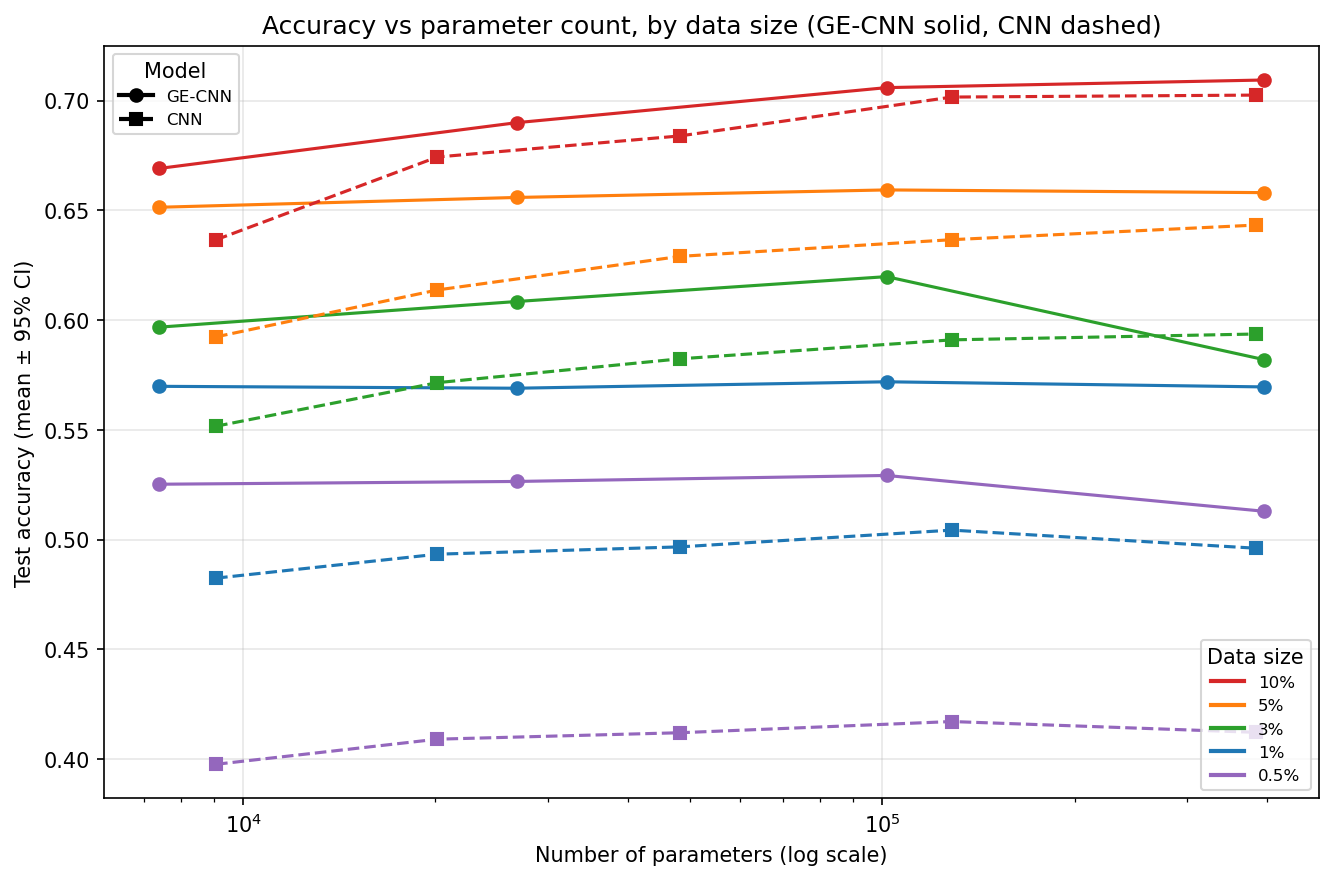
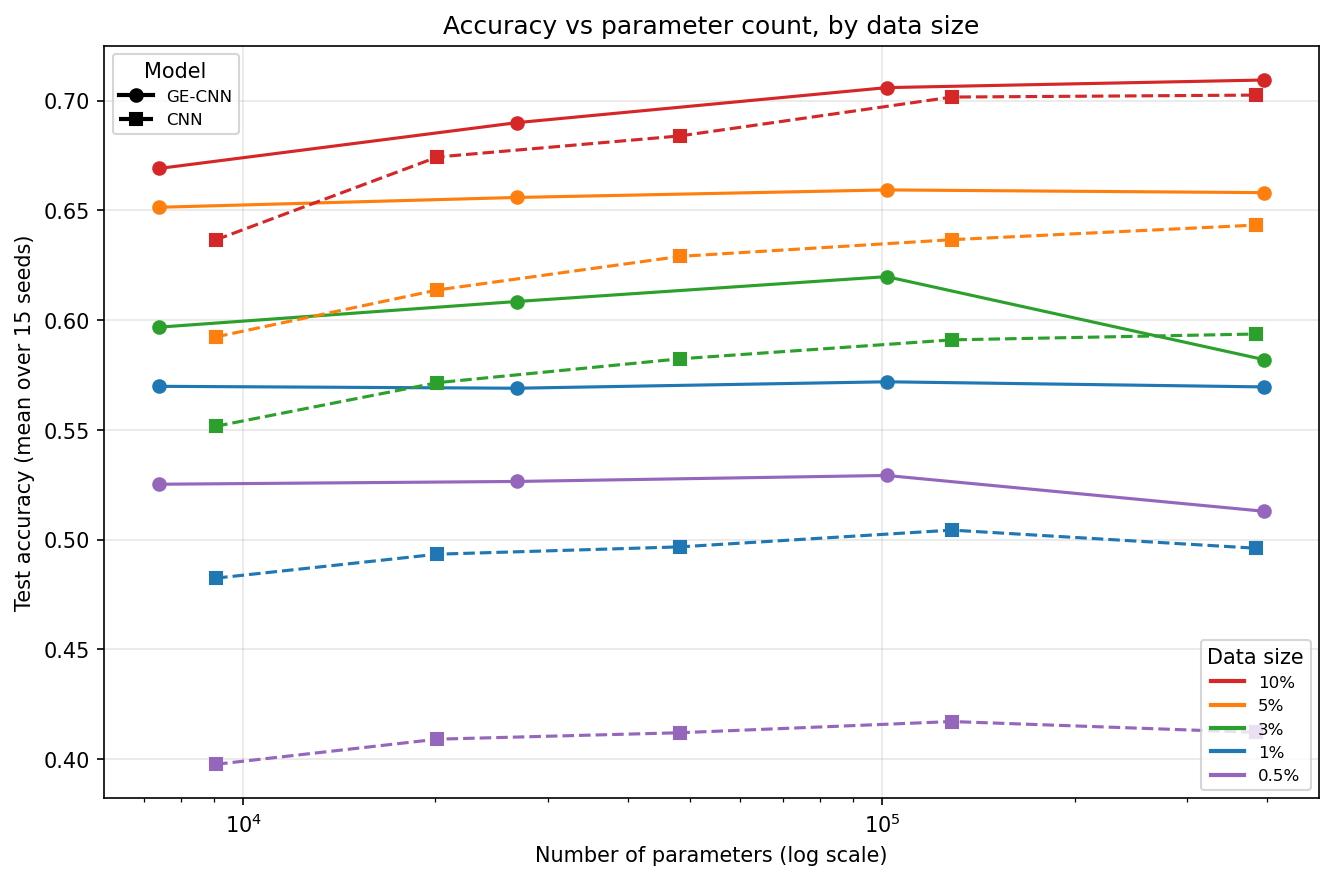
final changes to the plots used in the report

Changed region(s): [[0.2153, 0.0, 0.8612, 0.0614], [0.0, 0.2761, 0.0308, 0.7057]]

diff --git a/src/plot_param_datasize_2.py b/src/plot_param_datasize_2.py
@@ -206,7 +206,7 @@ ax.set_xscale("log")
 ax.set_xticks(ds_pct)
 ax.set_xticklabels([f"{p:g}%" for p in ds_pct])
 ax.set_xlabel("Training set size (% of full set, log scale)")
-ax.set_ylabel("Test accuracy (mean ± 95% CI)")
+ax.set_ylabel("Test accuracy (mean over 15 seeds)")
 ax.set_title("Parameter-matched comparisons: GE-CNN (green→blue) vs CNN (yellow→red)")
 ax.grid(True, alpha=0.3)
 ax.legend(ncol=2, fontsize=8)
@@ -235,8 +235,8 @@ for i, ds in enumerate(DATASIZES):
 
 ax.set_xscale("log")
 ax.set_xlabel("Number of parameters (log scale)")
-ax.set_ylabel("Test accuracy (mean ± 95% CI)")
-ax.set_title("Accuracy vs parameter count, by data size (GE-CNN solid, CNN dashed)")
+ax.set_ylabel("Test accuracy (mean over 15 seeds)")
+ax.set_title("Accuracy vs parameter count, by data size")
 ax.grid(True, alpha=0.3)
 
 
